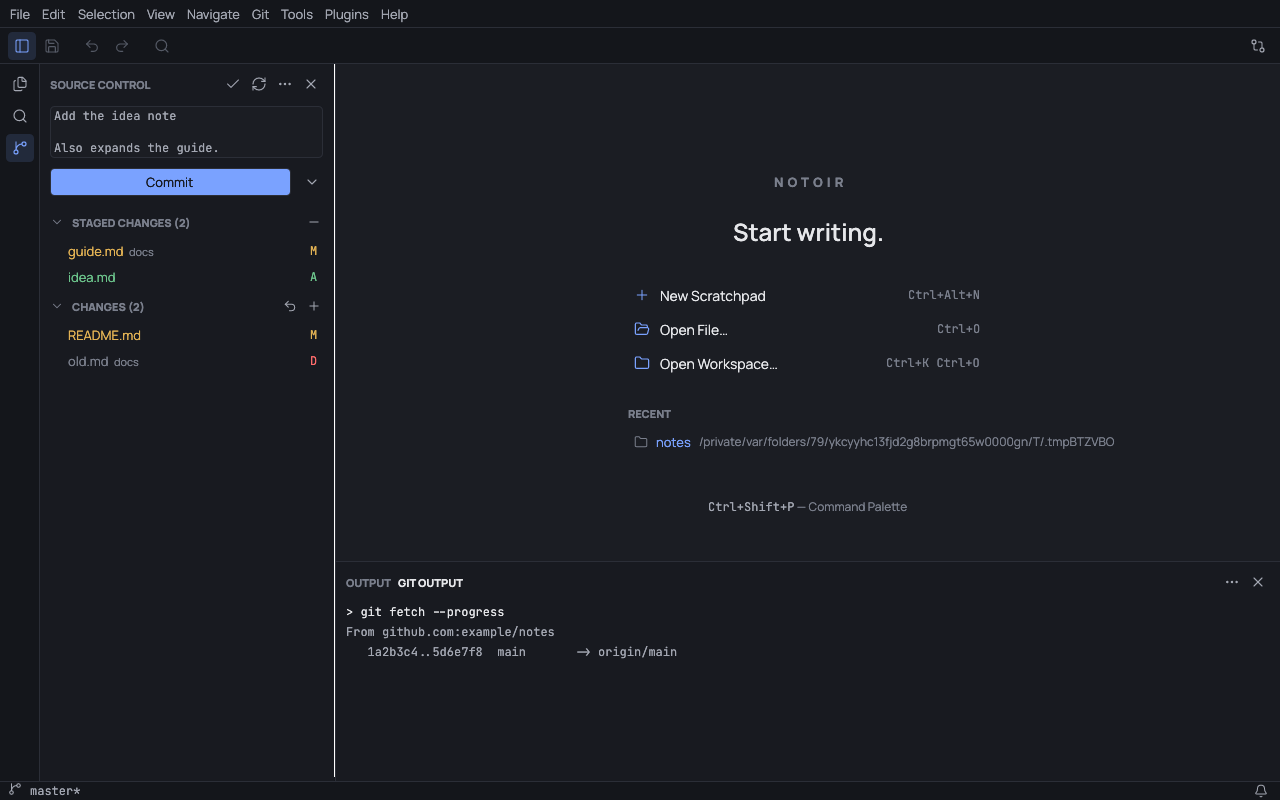
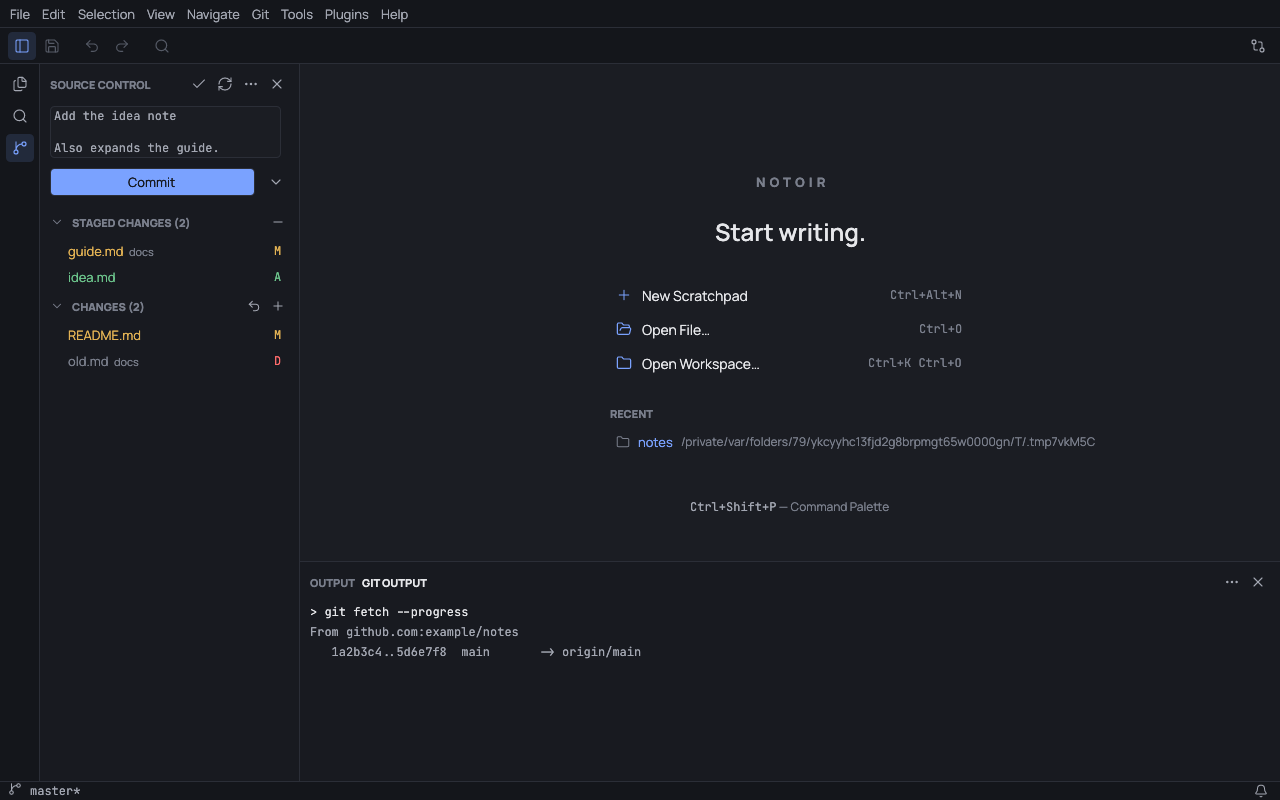
Fix Source Control sidebar growing on every repaint
The commit message box asked for the full available width without its
margin, and the Commit button left too little room for the dropdown and
the spacing before it. Both overflowed the resizable sidebar by a few
pixels, so it grew on every frame while the pointer moved over the window.

Claude-Session: https://claude.ai/code/session_011EEH1S6upLp4kb6DARjNf7

diff --git a/apps/notoir/src/shell/scm_panel.rs b/apps/notoir/src/shell/scm_panel.rs
@@ -247,7 +247,10 @@ fn message_box(ui: &mut egui::Ui, kit: &mut Kit, core: &mut AppCore, actions: &m
             .hint_text(hint.clone())
             .font(font.clone())
             .desired_rows(3)
-            .desired_width(ui.available_width()),
+            // `desired_width` excludes the edit's margin: ask for exactly
+            // the space there is, or the resizable sidebar grows each frame.
+            .margin(egui::Margin::symmetric(4, 2))
+            .desired_width(ui.available_width() - 8.0),
     );
     let label = t!("git:scm.message");
     resp.widget_info(|| egui::WidgetInfo::labeled(egui::WidgetType::TextEdit, true, &label));
@@ -272,7 +275,8 @@ fn mod_enter(core: &AppCore) -> String {
 fn commit_button(ui: &mut egui::Ui, kit: &mut Kit, core: &AppCore, actions: &mut Actions) {
     let enabled = !core.git_busy();
     ui.horizontal(|ui| {
-        let width = (ui.available_width() - 32.0).max(80.0);
+        // The dropdown (26) and the spacing before it share the row.
+        let width = (ui.available_width() - 26.0 - ui.spacing().item_spacing.x).max(80.0);
         let text = RichText::new(t!("git:scm.commit")).color(kit.color(Tok::BgApp));
         let button = egui::Button::new(text)
             .fill(kit.color(Tok::Accent))

diff --git a/apps/notoir/tests/git_write.rs b/apps/notoir/tests/git_write.rs
@@ -1292,3 +1292,30 @@ fn auto_fetch_runs_only_when_enabled() {
         .is_empty()));
     assert_eq!(fake.calls.lock().unwrap().as_slice(), ["fetch"]);
 }
+
+#[test]
+fn source_control_panel_keeps_its_width() {
+    let (_d, root, _r) = repo();
+    std::fs::write(root.join("notes.md"), "one\ntwo\n").unwrap();
+    let mut app = open(&root, vec![]);
+    common::settle(&mut app);
+    let before = app.harness.state().core.panels.primary.size;
+    assert_eq!(
+        before,
+        notoir_core::panels::PanelArea::Primary.default_size()
+    );
+    // Repaints driven by the pointer moving over the window.
+    for i in 0..40 {
+        app.harness.hover_at(egui::Pos2::new(
+            600.0 + (i % 7) as f32,
+            300.0 + (i % 5) as f32,
+        ));
+        app.harness.run_steps(1);
+    }
+    common::settle(&mut app);
+    let after = app.harness.state().core.panels.primary.size;
+    assert!(
+        (after - before).abs() < 0.5,
+        "the sidebar grew from {before} to {after}"
+    );
+}
